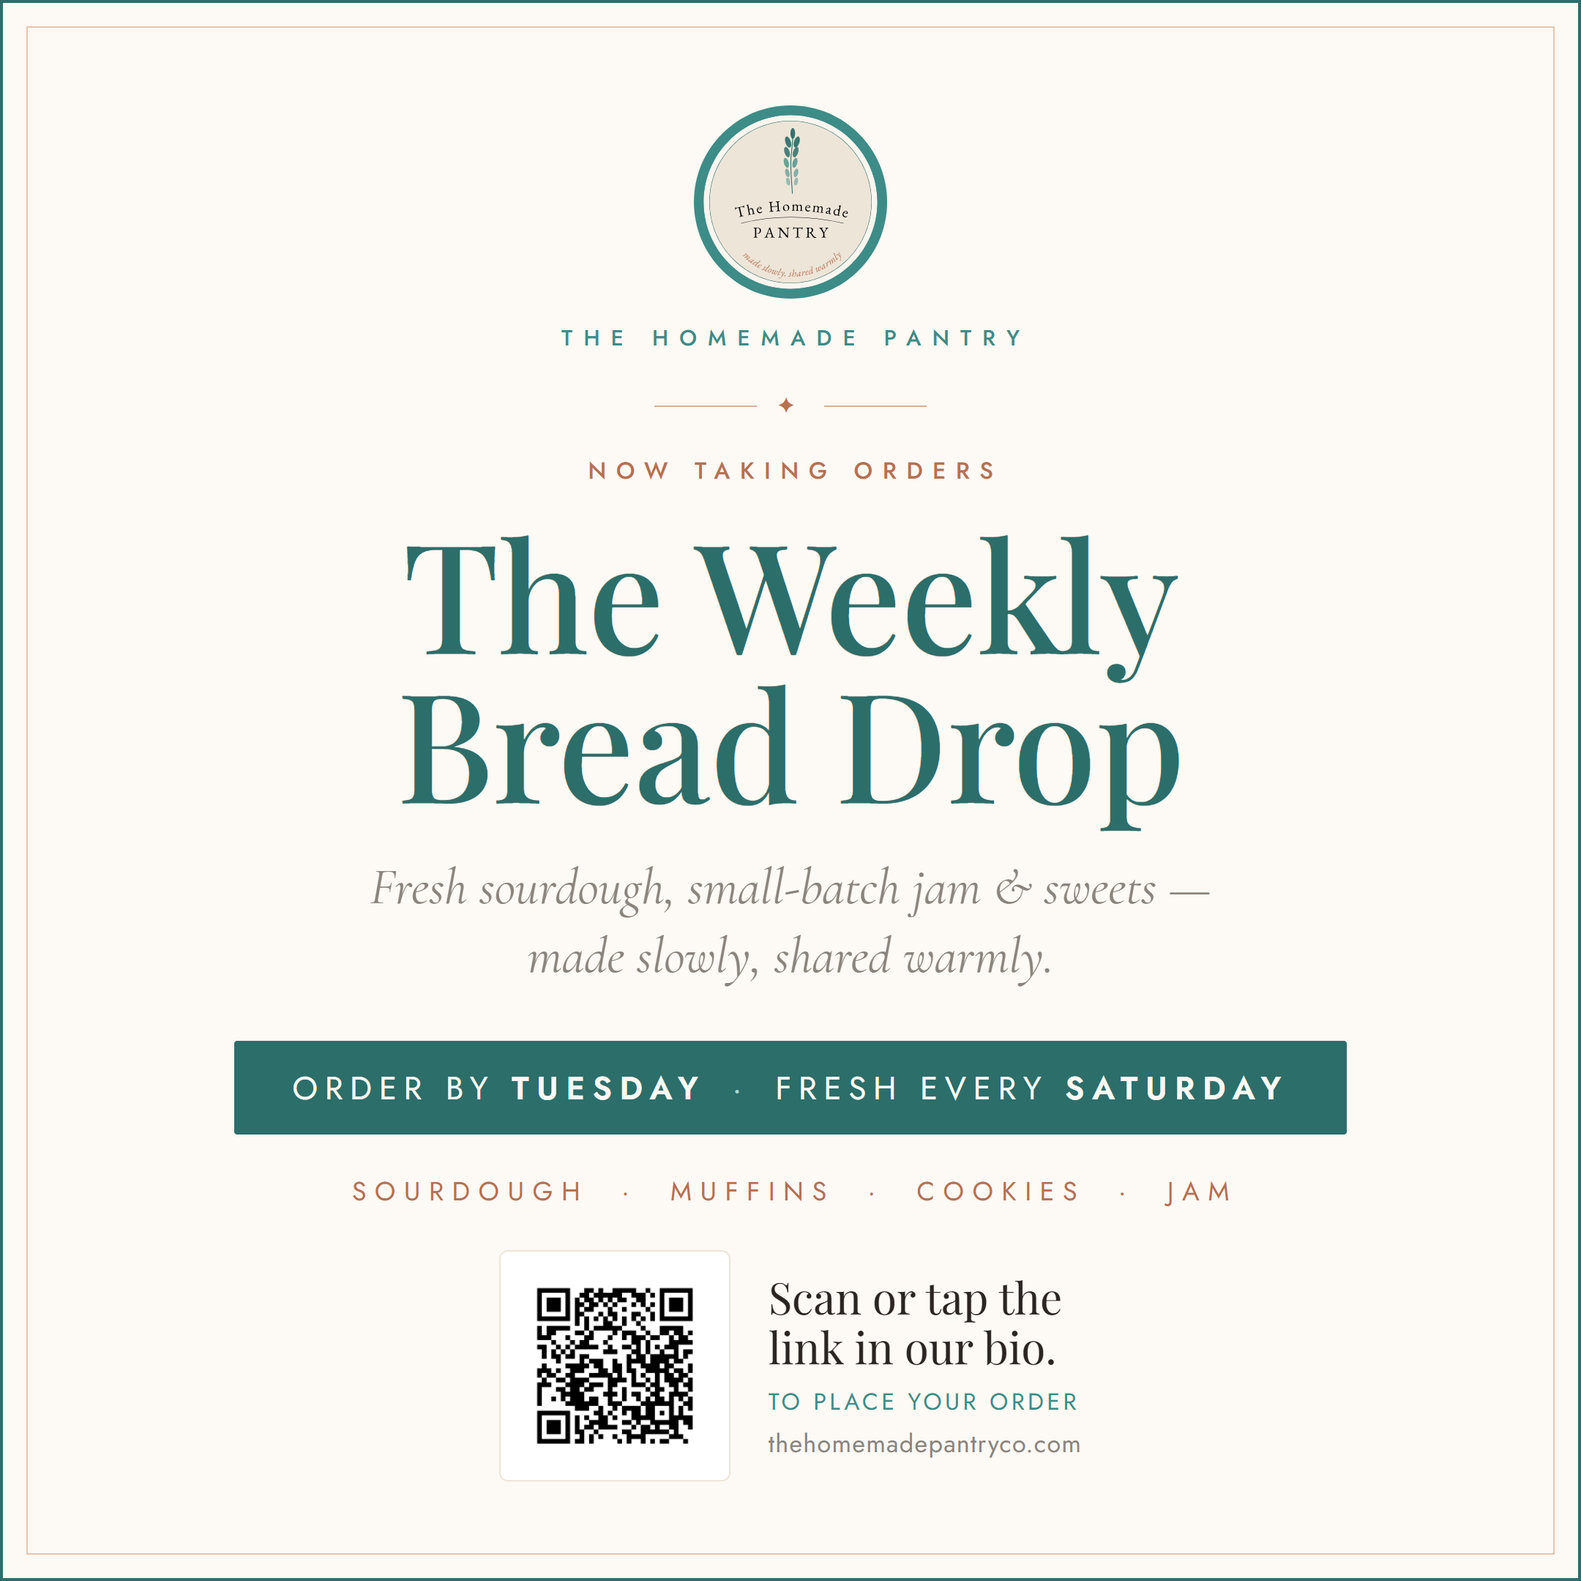
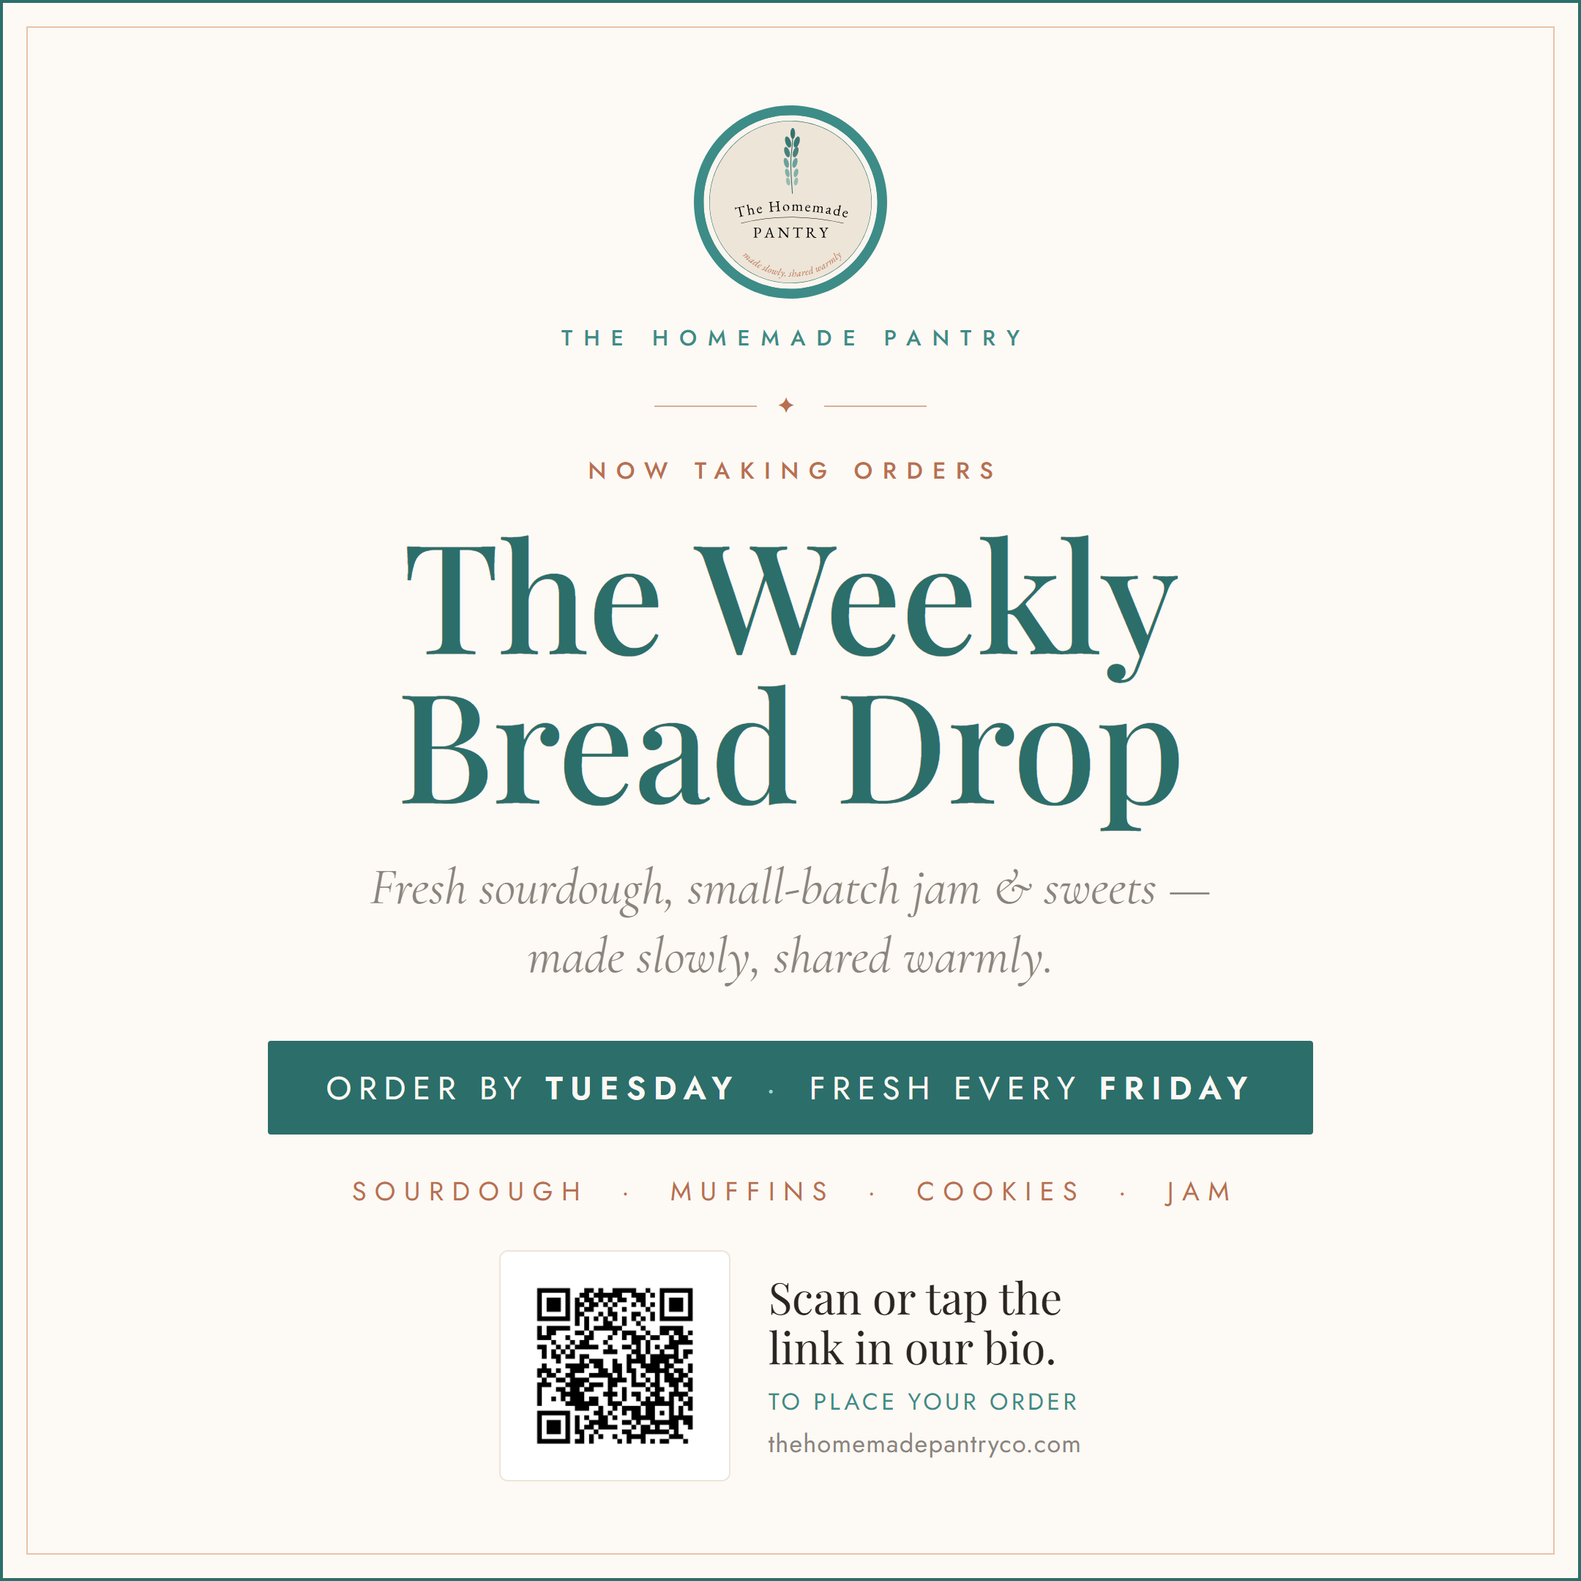
Order page updates: Friday fulfillment, friendly pricing, Pantry Box flavor picker
- Change fulfillment day Saturday -> Friday everywhere (order page, confirmation
  email, launch graphic, bake log, docs) — Jaime isn't delivering Saturdays.
- Switch to friendly launch pricing (classic loaf $9, specialty $12, muffins $12,
  cookies $15, jam $8, Pantry Box $26).
- Rename the Cookies menu banner to "Sourdough Cookies".
- Pantry Box now shows loaf/jam/cookie dropdowns (appear only when a box is added)
  populated from the current menu, so weekly flavor changes need no box edits. The
  chosen flavors flow into the order summary and both emails.
- Regenerate launch-graphic.png and bake-log.xlsx.

Changed region(s): [[0.4963, 0.6514, 0.8685, 0.7134], [0.1241, 0.6514, 0.4653, 0.7134]]

diff --git a/website/order.html b/website/order.html
@@ -4,7 +4,7 @@
 <meta charset="UTF-8">
 <meta name="viewport" content="width=device-width, initial-scale=1.0">
 <title>The Weekly Bread Drop — Order Fresh Sourdough · The Homemade Pantry</title>
-<meta name="description" content="Order fresh, hand-shaped sourdough, small-batch jam, muffins, and cookies from The Homemade Pantry in Brookshire, TX. Order by Tuesday — fresh every Saturday.">
+<meta name="description" content="Order fresh, hand-shaped sourdough, small-batch jam, muffins, and cookies from The Homemade Pantry in Brookshire, TX. Order by Tuesday — fresh every Friday.">
 
 <!-- Favicon — the wheat-stalk badge in browser tabs and bookmarks -->
 <link rel="icon" type="image/png" href="favicon.png">
@@ -14,7 +14,7 @@
 <meta property="og:type" content="website">
 <meta property="og:url" content="https://www.thehomemadepantryco.com/order.html">
 <meta property="og:title" content="The Weekly Bread Drop — The Homemade Pantry">
-<meta property="og:description" content="Fresh sourdough, jam, muffins &amp; cookies — order by Tuesday, ready every Saturday. Made slowly. Shared warmly.">
+<meta property="og:description" content="Fresh sourdough, jam, muffins &amp; cookies — order by Tuesday, ready every Friday. Made slowly. Shared warmly.">
 <meta property="og:image" content="https://www.thehomemadepantryco.com/images/og-card.jpg">
 <meta property="og:image:width" content="1200">
 <meta property="og:image:height" content="630">
@@ -112,6 +112,23 @@ a{text-decoration:none;color:inherit;}
   font-size:.62rem;letter-spacing:.22em;text-transform:uppercase;
   padding:11px 22px;border-bottom:1px solid var(--linen);
 }
+/* Pantry Box flavor pickers — hidden until a box is added */
+.box-choices{display:none;background:var(--teal-pale);padding:16px 22px;border-top:1px dashed var(--teal-light);}
+.box-choices.show{display:block;}
+.box-choices-label{
+  font-size:.62rem;letter-spacing:.18em;text-transform:uppercase;
+  color:var(--teal);font-weight:500;margin-bottom:10px;
+}
+.box-choices-grid{display:grid;grid-template-columns:1fr 1fr 1fr;gap:12px;}
+.box-choices-grid label{
+  display:block;font-size:.55rem;letter-spacing:.12em;text-transform:uppercase;color:var(--gray);
+}
+.box-choices-grid select{
+  width:100%;margin-top:5px;padding:9px 10px;
+  border:1px solid var(--linen);border-radius:2px;background:#fff;
+  font-family:'Jost',sans-serif;font-size:.82rem;color:var(--charcoal);
+}
+@media(max-width:640px){.box-choices-grid{grid-template-columns:1fr;}}
 .item{
   display:flex;align-items:center;gap:16px;
   padding:20px 22px;border-bottom:1px solid var(--linen);
@@ -243,7 +260,7 @@ a{text-decoration:none;color:inherit;}
 <section class="drop-hero">
   <div class="eyebrow">The Homemade Pantry</div>
   <h1>The Weekly Bread Drop</h1>
-  <p class="schedule">Order by <strong>Tuesday</strong> · Fresh every <strong>Saturday</strong></p>
+  <p class="schedule">Order by <strong>Tuesday</strong> · Fresh every <strong>Friday</strong></p>
 </section>
 
 <!-- ── HOW IT WORKS ── -->
@@ -260,7 +277,7 @@ a{text-decoration:none;color:inherit;}
   </div>
   <div class="step">
     <div class="num">3</div>
-    <div class="t">Fresh Saturday</div>
+    <div class="t">Fresh Friday</div>
     <div class="d">Pick up in Brookshire or have it delivered — baked that morning.</div>
   </div>
 </div>
@@ -355,7 +372,7 @@ a{text-decoration:none;color:inherit;}
         </div>
       </div>
 
-      <div class="cat-head">Cookies · Dozen</div>
+      <div class="cat-head">Sourdough Cookies · Dozen</div>
       <div class="item">
         <div class="info">
           <div class="name">Lemon Crinkle</div>
@@ -411,13 +428,24 @@ a{text-decoration:none;color:inherit;}
       <div class="item box">
         <div class="info">
           <div class="name">The Pantry Box &nbsp;·&nbsp; Best Value</div>
-          <div class="desc">1 Classic Loaf + 1 Strawberry Jam + ½ dozen cookies. A perfect gift — note any flavor swaps below.</div>
+          <div class="desc">1 sourdough loaf + 1 jam + ½ dozen sourdough cookies. A perfect gift — pick your flavors below.</div>
           <div class="price" data-price-for="box"></div>
         </div>
         <div class="stepper" data-key="box">
           <button type="button" aria-label="Remove one" data-step="-1">−</button>
           <input type="number" name="qty-box" class="qty" value="0" min="0" max="20" inputmode="numeric">
           <button type="button" aria-label="Add one" data-step="1">+</button>
+        </div>
+      </div>
+
+      <!-- Appears only when a Pantry Box is in the order. Options are filled by JS
+           from the menu above, so they always match this week's flavors. -->
+      <div class="box-choices" id="box-choices">
+        <div class="box-choices-label">Choose your Pantry Box flavors</div>
+        <div class="box-choices-grid">
+          <label>Sourdough Loaf<select name="box-loaf" id="box-loaf"></select></label>
+          <label>Jam<select name="box-jam" id="box-jam"></select></label>
+          <label>Sourdough Cookies<select name="box-cookie" id="box-cookie"></select></label>
         </div>
       </div>
     </div>
@@ -492,7 +520,7 @@ a{text-decoration:none;color:inherit;}
     <div class="method"><span class="label">Venmo</span><span class="val">@Jaime-Kerber-1</span></div>
     <div class="method"><span class="label">Zelle</span><span class="val">micahkerber@gmail.com</span></div>
   </div>
-  <p>Questions? Text us at <strong>832-546-6446</strong>. See you Saturday!</p>
+  <p>Questions? Text us at <strong>832-546-6446</strong>. See you Friday!</p>
 </div>
 
 <!-- ── FUNNEL BAND — turns a bread buyer into an experience guest ── -->
@@ -520,16 +548,16 @@ a{text-decoration:none;color:inherit;}
    numbers whenever her friend feedback lands.)
    ───────────────────────────────────────────────────────────── */
 const PRICES = {
-  'loaf-classic':      12,  // Classic Sourdough
-  'loaf-jalapeno':     15,  // Jalapeño Cheddar
-  'loaf-asiago':       15,  // Asiago Garlic
-  'muffin-strawberry': 15,  // Strawberries & Cream muffins (½ dozen)
-  'muffin-cinnamon':   15,  // Cinnamon Swirl muffins (½ dozen)
-  'cookie-lemon':      18,  // Lemon Crinkle cookies (dozen)
-  'cookie-oatmeal':    18,  // Oatmeal Chocolate Chip cookies (dozen)
-  'jam-strawberry':    9,   // Classic Strawberry jam (8 oz)
-  'jam-peach':         9,   // Peach Jalapeño jam (8 oz)
-  'box':               32   // The Pantry Box (bundle)
+  'loaf-classic':      9,   // Classic Sourdough
+  'loaf-jalapeno':     12,  // Jalapeño Cheddar
+  'loaf-asiago':       12,  // Asiago Garlic
+  'muffin-strawberry': 12,  // Strawberries & Cream muffins (½ dozen)
+  'muffin-cinnamon':   12,  // Cinnamon Swirl muffins (½ dozen)
+  'cookie-lemon':      15,  // Lemon Crinkle cookies (dozen)
+  'cookie-oatmeal':    15,  // Oatmeal Chocolate Chip cookies (dozen)
+  'jam-strawberry':    8,   // Classic Strawberry jam (8 oz)
+  'jam-peach':         8,   // Peach Jalapeño jam (8 oz)
+  'box':               26   // The Pantry Box (bundle)
 };
 const DELIVERY_FEE = 5;      // flat local delivery fee
 const DELIVERY_MIN = 25;     // minimum order subtotal for delivery
@@ -568,6 +596,46 @@ document.querySelectorAll('.stepper').forEach(st=>{
   input.addEventListener('input', recalc);
 });
 
+// ── Pantry Box flavor pickers ──
+// Options are pulled straight from the current menu items, so when the weekly
+// flavors change these dropdowns update automatically — nothing to maintain.
+const boxSelects = { 'box-loaf':'loaf-', 'box-jam':'jam-', 'box-cookie':'cookie-' };
+function populateBoxChoices(){
+  for (const selId in boxSelects){
+    const sel = document.getElementById(selId);
+    const prefix = boxSelects[selId];
+    sel.innerHTML = '';
+    document.querySelectorAll('.stepper').forEach(st=>{
+      const key = st.getAttribute('data-key');
+      if (key && key.indexOf(prefix) === 0){
+        const name = st.closest('.item').querySelector('.name').textContent.trim();
+        const opt = document.createElement('option');
+        opt.value = name; opt.textContent = name;
+        sel.appendChild(opt);
+      }
+    });
+  }
+}
+populateBoxChoices();
+for (const selId in boxSelects){
+  document.getElementById(selId).addEventListener('change', recalc);
+}
+// Summary suffix like " (Classic Sourdough · Strawberry Jam · Lemon Crinkle)"
+function boxFlavorSuffix(){
+  const v = ['box-loaf','box-jam','box-cookie'].map(id=>document.getElementById(id).value).filter(Boolean);
+  return v.length ? ' (' + v.join(' · ') + ')' : '';
+}
+// Show + require the box dropdowns only when a Pantry Box is in the order
+function syncBoxChoices(){
+  const boxQty = parseInt(document.querySelector('.stepper[data-key="box"] .qty').value,10) || 0;
+  document.getElementById('box-choices').classList.toggle('show', boxQty > 0);
+  for (const selId in boxSelects){
+    const s = document.getElementById(selId);
+    s.disabled = boxQty === 0;   // disabled fields aren't submitted
+    s.required = boxQty > 0;
+  }
+}
+
 const fulfillment = document.getElementById('fulfillment');
 const addrRow = document.getElementById('delivery-address-row');
 const minWarn = document.getElementById('min-warn');
@@ -582,9 +650,11 @@ function recalc(){
     const q = parseInt(input.value,10) || 0;
     if (q > 0){
       subtotal += q * PRICES[key];
-      parts.push(q + '× ' + LABELS[key]);
+      parts.push(q + '× ' + LABELS[key] + (key === 'box' ? boxFlavorSuffix() : ''));
     }
   }
+
+  syncBoxChoices(); // show/hide the Pantry Box flavor pickers
 
   const isDelivery = fulfillment.value.indexOf('delivery') !== -1;
   addrRow.style.display = isDelivery ? 'block' : 'none';

diff --git a/marketing/build-bake-log.js b/marketing/build-bake-log.js
@@ -3,7 +3,7 @@
 //
 // Three tabs:
 //   Orders           — one row per order (columns mirror the order form)
-//   Weekly Bake List — pick a Saturday, see exactly what to bake + the money
+//   Weekly Bake List — pick a Friday, see exactly what to bake + the money
 //   How to Use       — plain-language instructions
 //
 // If the weekly menu changes, edit PRODUCTS below and re-run.
@@ -150,8 +150,8 @@ ws.addConditionalFormatting({
 });
 
 // ── Sample orders (delete these after you see how it works) ──
-// Uses next Saturday as the sample pickup date so the Bake List lights up.
-const SAMPLE_DATE = new Date(2026, 7, 8); // 2026-08-08 (Sat)
+// Uses next Friday as the sample pickup date so the Bake List lights up.
+const SAMPLE_DATE = new Date(2026, 7, 7); // 2026-08-07 (Fri)
 const sample = [
   // [Classic,JalCh,Asiago,S&C muf,Cinn muf,Lemon,Oat,StrawJam,PeachJam,Box]
   { first: 'Sample', last: 'Rivera', phone: '832-555-0101', email: 'rivera@example.com',
@@ -203,7 +203,7 @@ dateInput.font = { bold: true, size: 11, color: { argb: TEAL } };
 dateInput.fill = { type: 'pattern', pattern: 'solid', fgColor: { argb: CREAM } };
 dateInput.border = { top:{style:'thin',color:{argb:CLAY}}, left:{style:'thin',color:{argb:CLAY}}, bottom:{style:'thin',color:{argb:CLAY}}, right:{style:'thin',color:{argb:CLAY}} };
 dateInput.alignment = { horizontal: 'center' };
-bl.getCell('A4').value = '(type any Saturday here — the numbers below update)';
+bl.getCell('A4').value = '(type any Friday here — the numbers below update)';
 bl.getCell('A4').font = { italic: true, size: 9, color: { argb: 'FF8A847C' } };
 
 // Bake table header
@@ -269,13 +269,13 @@ const lines = [
   ['The Homemade Pantry — Weekly Bread Drop Order Log', 'title'],
   ['', 'gap'],
   ['What this is', 'h'],
-  ['A running log of every bread-drop order, plus an automatic "what to bake" list for each Saturday.', 'p'],
+  ['A running log of every bread-drop order, plus an automatic "what to bake" list for each Friday.', 'p'],
   ['', 'gap'],
   ['Each week', 'h'],
   ['1. As orders arrive, add a row on the ORDERS tab. Each order emails you the details — copy them in.', 'p'],
-  ['2. Put the Saturday pickup date in the "Pickup Date" column for every order in that drop.', 'p'],
+  ['2. Put the Friday pickup date in the "Pickup Date" column for every order in that drop.', 'p'],
   ['3. When a Venmo/Zelle payment lands, set that order’s "Paid?" to Yes (unpaid rows glow clay-orange).', 'p'],
-  ['4. On the WEEKLY BAKE LIST tab, type that Saturday’s date in the highlighted box.', 'p'],
+  ['4. On the WEEKLY BAKE LIST tab, type that Friday’s date in the highlighted box.', 'p'],
   ['   The tab instantly shows how many of each item to bake, revenue, pickups vs. deliveries, and who still owes.', 'p'],
   ['', 'gap'],
   ['Faster data entry (optional)', 'h'],

diff --git a/netlify/functions/submission-created.js b/netlify/functions/submission-created.js
@@ -158,7 +158,7 @@ async function sendOrderConfirmation(data, guestEmail, apiKey) {
       <p style="font-size:13px;font-weight:bold;color:#2C6E6A;letter-spacing:0.12em;text-transform:uppercase;margin:0 0 12px;">To confirm your order, send ${orderTotal}</p>
       <p style="font-size:15px;margin:0 0 6px;"><strong>Venmo:</strong> ${VENMO}</p>
       <p style="font-size:15px;margin:0;"><strong>Zelle:</strong> ${ZELLE}</p>
-      <p style="font-size:13px;color:#8A847C;margin:12px 0 0;line-height:1.5;">Your order is locked in once payment arrives. Orders close Tuesday night; everything is baked fresh Saturday morning.</p>
+      <p style="font-size:13px;color:#8A847C;margin:12px 0 0;line-height:1.5;">Your order is locked in once payment arrives. Orders close Tuesday night; everything is baked fresh Friday morning.</p>
     </div>
     <p style="font-size:16px;line-height:1.6;margin:0 0 20px;">Questions, changes, or a gift note? Just reply to this email or text us at <strong>832-546-6446</strong>.</p>
     <p style="font-family:'Playfair Display',Georgia,serif;font-size:20px;font-style:italic;color:#2C6E6A;margin:28px 0 8px;">Made slowly. Shared warmly.</p>
@@ -185,7 +185,7 @@ TO CONFIRM YOUR ORDER, SEND ${data['order-total'] || 'your total'}:
   Venmo: ${VENMO}
   Zelle: ${ZELLE}
 
-Your order is locked in once payment arrives. Orders close Tuesday night; everything is baked fresh Saturday morning.
+Your order is locked in once payment arrives. Orders close Tuesday night; everything is baked fresh Friday morning.
 
 Questions, changes, or a gift note? Reply to this email or text us at 832-546-6446.
 

diff --git a/marketing/launch-graphic.html b/marketing/launch-graphic.html
@@ -96,7 +96,7 @@
     <h1>The Weekly<br>Bread Drop</h1>
     <div class="sub">Fresh sourdough, small-batch jam &amp; sweets —<br>made slowly, shared warmly.</div>
 
-    <div class="ribbon"><span>Order by <b>Tuesday</b></span><span class="sep">·</span><span>Fresh every <b>Saturday</b></span></div>
+    <div class="ribbon"><span>Order by <b>Tuesday</b></span><span class="sep">·</span><span>Fresh every <b>Friday</b></span></div>
 
     <div class="menu-line">Sourdough &nbsp;·&nbsp; Muffins &nbsp;·&nbsp; Cookies &nbsp;·&nbsp; Jam</div>
 

diff --git a/CHANGELOG.md b/CHANGELOG.md
@@ -8,12 +8,13 @@
 
 ## August 1, 2026 — The Weekly Bread Drop launches (online ordering)
 
-- **Jaime can now sell bread, sweets & jam online.** A new order page (`thehomemadepantryco.com/order.html`) lets people order from a weekly menu — sourdough (classic, jalapeño cheddar, asiago garlic), sourdough muffins, cookies, and jam — with a live running total. Orders open through Tuesday; everything is baked fresh Saturday for pickup in Brookshire or local delivery.
+- **Jaime can now sell bread, sweets & jam online.** A new order page (`thehomemadepantryco.com/order.html`) lets people order from a weekly menu — sourdough (classic, jalapeño cheddar, asiago garlic), sourdough muffins, cookies, and jam — with a live running total. Orders open through Tuesday; everything is baked fresh Friday for pickup in Brookshire or local delivery.
 - **It runs on the same machine as the booking form** — no new services or costs. The order page is a second Netlify form on the existing pipeline: every order emails the bake list to thehomemadepantryco@gmail.com and sends the customer an automatic confirmation with their total and Venmo/Zelle instructions (prepay confirms the order).
 - **The bread feeds the experiences.** Every order and its confirmation email carry a **FRESH10** code — $10 off a sourdough evening — turning bread buyers into experience guests.
 - **Marketing kit created** (`marketing/`): a scan-to-order QR code, a branded Instagram/Facebook launch graphic, and the launch caption + posting strategy.
 - **"Order Bread" link added to the main site** — in the top navigation, the mobile menu, and the footer — so visitors browsing the experiences can find the order page (kept as a plain link, not a second button, so the experiences stay the site's primary call to action).
-- Prices: loaves $12 (specialty $15), muffins $15/half-dozen, cookies $18/dozen, jam $9, Pantry Box bundle $32.
+- Prices (friendly launch pricing): classic loaf $9, specialty loaves $12, sourdough muffins $12/half-dozen, sourdough cookies $15/dozen, jam $8, Pantry Box bundle $26.
+- **Pantry Box lets the customer pick the flavors** (loaf, jam, cookie) from dropdowns that fill themselves from the weekly menu — so changing a flavor never means editing the box.
 - **Still to come before physical sales:** a cottage-food label (Texas law requires ingredients + allergens on every item) and a printed insert card.
 
 ## June 12, 2026 — Reusable launch playbook + Host Dashboard prototype filed

diff --git a/marketing/README.md b/marketing/README.md
@@ -5,7 +5,7 @@ marketing for the Homemade Pantry experiences (every order carries the **FRESH10
 $10 off an experience).
 
 ## The model
-Weekly "bread drop": customers **order by Tuesday**, Jaime bakes, everything is **fresh Saturday**
+Weekly "bread drop": customers **order by Tuesday**, Jaime bakes, everything is **fresh Friday**
 (pickup in Brookshire or local delivery, $5 / $25 minimum). Payment is **prepay by Venmo
 (@Jaime-Kerber-1) or Zelle (micahkerber@gmail.com)** — the order is confirmed once payment lands.
 
